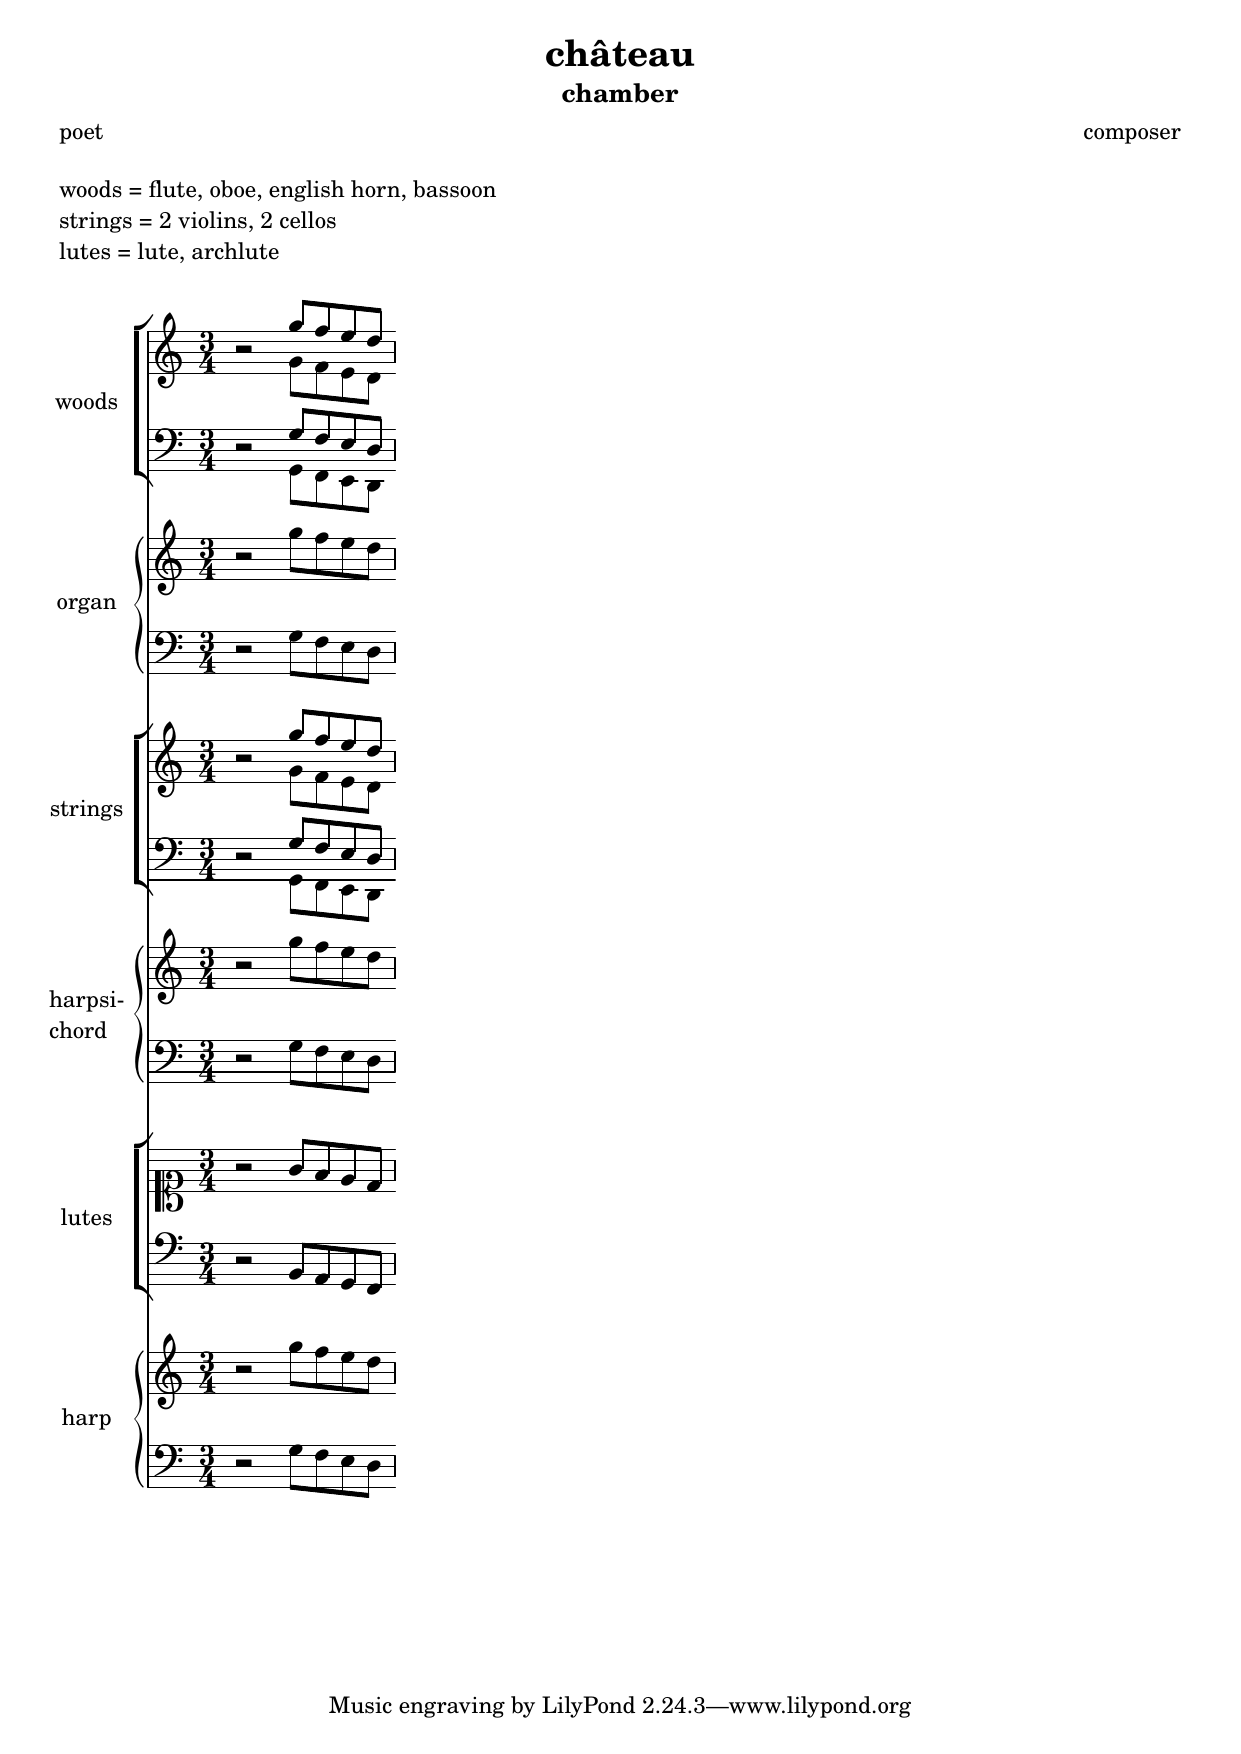
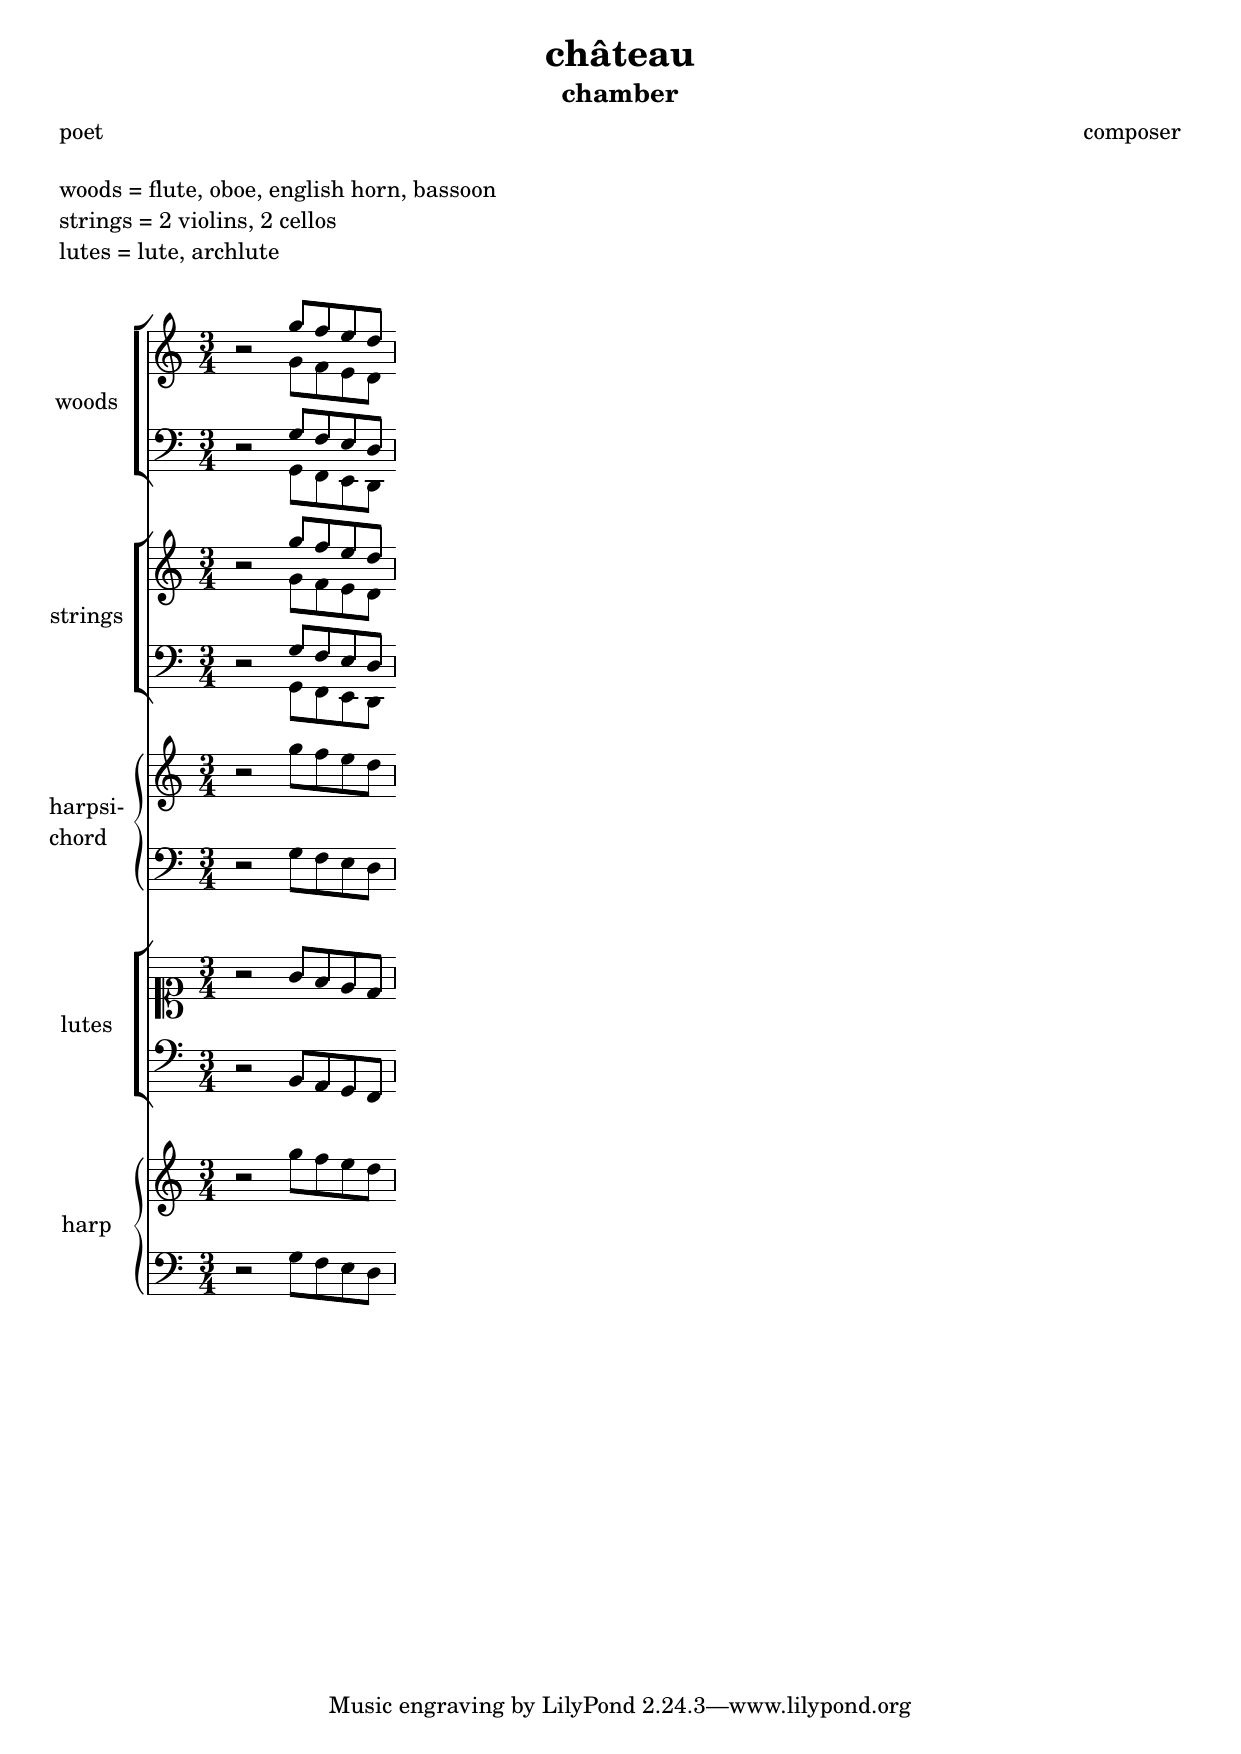
chateau : bassons

Changed region(s): [[0.0306, 0.2771, 0.3368, 0.862]]

diff --git a/musica/template/chateau.html b/musica/template/chateau.html
@@ -3,7 +3,7 @@
 "http://www.w3.org/TR/xhtml1/DTD/xhtml1-strict.dtd">
 <html xmlns="http://www.w3.org/1999/xhtml" lang="en" xml:lang="en">
 <head>
-<!-- 2024-01-23 mar 13:47 -->
+<!-- 2024-01-24 mer 10:35 -->
 <meta http-equiv="Content-Type" content="text/html;charset=utf-8" />
 <meta name="viewport" content="width=device-width, initial-scale=1" />
 <title>Eclats de vers : Opus : Musica : template</title>
@@ -205,20 +205,20 @@
 <h2>Table of Contents</h2>
 <div id="text-table-of-contents" role="doc-toc">
 <ul>
-<li><a href="#org01f765a">1. Château</a></li>
+<li><a href="#org341d896">1. Château</a></li>
 </ul>
 </div>
 </div>
 
-<div id="outline-container-org01f765a" class="outline-2">
-<h2 id="org01f765a"><span class="section-number-2">1.</span> Château</h2>
+<div id="outline-container-org341d896" class="outline-2">
+<h2 id="org341d896"><span class="section-number-2">1.</span> Château</h2>
 <div class="outline-text-2" id="text-1">
 <p>
 Le résultat :
 </p>
 
 
-<div id="orgcb62f0b" class="figure">
+<div id="org771d487" class="figure">
 <p><img src="../../image/musica/template/chateau.png" alt="chateau.png" />
 </p>
 </div>
@@ -295,32 +295,18 @@ voiceFluteAlto = \relative c' {
   \anacrusis % bar structure 0
 }
 
-% flutes &amp; bassoons {{{2
-
-% soprano {{{3
-
-voiceFlutesBassoonsSoprano = \relative c'' {
-  \keytime
-  \anacrusis % bar structure 0
-}
-
-% alto {{{3
-
-voiceFlutesBassoonsAlto = \relative c' {
-  \keytime
-  \anacrusis % bar structure 0
-}
+% bassoons {{{2
 
 % tenor {{{3
 
-voiceFlutesBassoonsTenor = \relative c {
+voiceBassoonTenor = \relative c {
   \keytime
   \anacrusis % bar structure 0
 }
 
 % bass {{{3
 
-voiceFlutesBassoonsBass = \relative c, {
+voiceBassoonBass = \relative c, {
   \keytime
   \anacrusis % bar structure 0
 }
@@ -570,27 +556,17 @@ instrumentFlutes = \new Staff \with {
     % \clef treble
     &lt;&lt; \voiceFluteSoprano \\ \voiceFluteAlto &gt;&gt; }
 
-% flutes &amp; bassoons {{{2
+% bassoons {{{2
 
-instrumentFlutesBassoons = \new StaffGroup \with {
-  instrumentName = \markup \column { flutes bassoons }
-  shortInstrumentName = \markup \column { fls bns }
-} &lt;&lt;
-  \new Staff = "treble" \with {
-    midiInstrument = "flute"
-    midiMinimumVolume = #1.0
-    midiMaximumVolume = #1.5
-  } { % \clef french
-      \clef treble
-      &lt;&lt; \voiceFlutesBassoonsSoprano \\ \voiceFlutesBassoonsAlto &gt;&gt; }
-  \new Staff = "bass" \with {
-    midiInstrument = "bassoon"
-    midiMinimumVolume = #1.0
-    midiMaximumVolume = #1.5
-  } { % \clef varbaritone
-      \clef bass
-      &lt;&lt; \voiceFlutesBassoonsTenor \\ \voiceFlutesBassoonsBass &gt;&gt; }
-&gt;&gt;
+instrumentBassoons = \new Staff \with {
+  instrumentName = "bassoons"
+  shortInstrumentName = "bns"
+  midiInstrument = "bassoon"
+  midiMinimumVolume = #1.0
+  midiMaximumVolume = #1.5
+} { \clef baritone
+    % \clef bass
+    &lt;&lt; \voiceBassoonTenor \\ \voiceBassoonBass &gt;&gt; }
 
 % woods {{{2
 
@@ -851,10 +827,11 @@ instrumentDrums = \new DrumStaff \with {
 % book {{{1
 
 \book {
+  % ---- instruments list, before the score
   \markup \column {
     \vspace #1
     %\line { flutes = flute, alto flute }
-    %\line { flutes &amp; bassoons = 2 flutes, 2 bassoons }
+    %\line { bassoons = 2 bassoons }
     \line { woods = flute, oboe, english horn, bassoon }
     %\line { brass = 2 trumpets, 2 french horns }
     \line { strings = 2 violins, 2 cellos }
@@ -862,14 +839,15 @@ instrumentDrums = \new DrumStaff \with {
     %\line { guitars = guitar, bass guitar }
     \vspace #1
   }
+  % ---- score, with instruments staves
   \score {
     &lt;&lt;
       %\instrumentFlutes
-      %\instrumentFlutesBassoons
+      %\instrumentBassoons
       \instrumentWoods
       %\instrumentSaxophones
       %\instrumentBrass
-      \instrumentOrgan
+      %\instrumentOrgan
       \instrumentStrings
       \instrumentHarpsichord
       %\instrumentPiano
@@ -879,17 +857,21 @@ instrumentDrums = \new DrumStaff \with {
       %\instrumentVibraphone
       %\instrumentDrums
     &gt;&gt;
+    % ---- layout, see beginning of file
     \layout { }
+    % ---- midi
     \midi {
       \context {
         \Score
         %midiChannelMapping = #'voice
         %\enablePolymeter
       }
+      % -- comment this if you don't need distinct instruments on the same staff
       \context {
         \Staff
         \remove "Staff_performer"
       }
+      % -- comment this if you don't need distinct instruments on the same staff
       \context {
         \Voice
         \consists "Staff_performer"
@@ -907,7 +889,7 @@ instrumentDrums = \new DrumStaff \with {
 </div>
 <div id="postamble" class="status">
 <p class="author">Author: chimay</p>
-<p class="date">Created: 2024-01-23 mar 13:47</p>
+<p class="date">Created: 2024-01-24 mer 10:35</p>
 <p class="validation"><a href="https://validator.w3.org/check?uri=referer">Validate</a></p>
 </div>
 </body>
